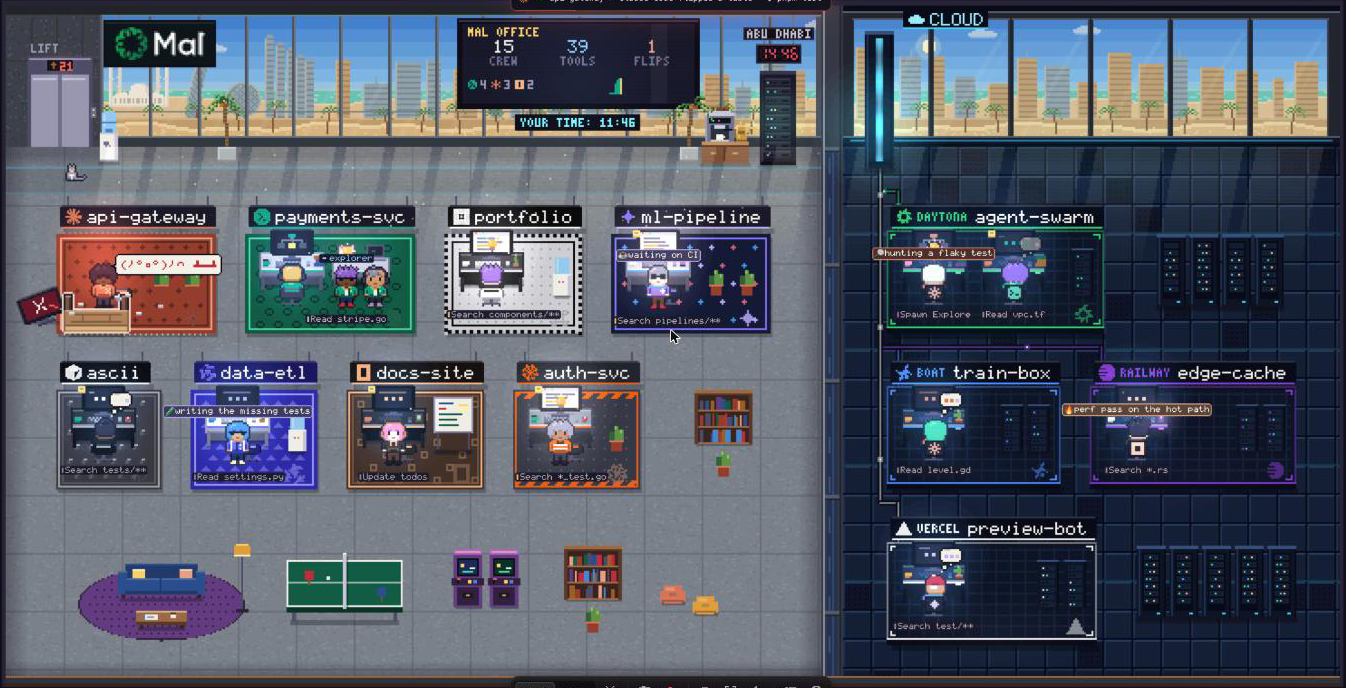
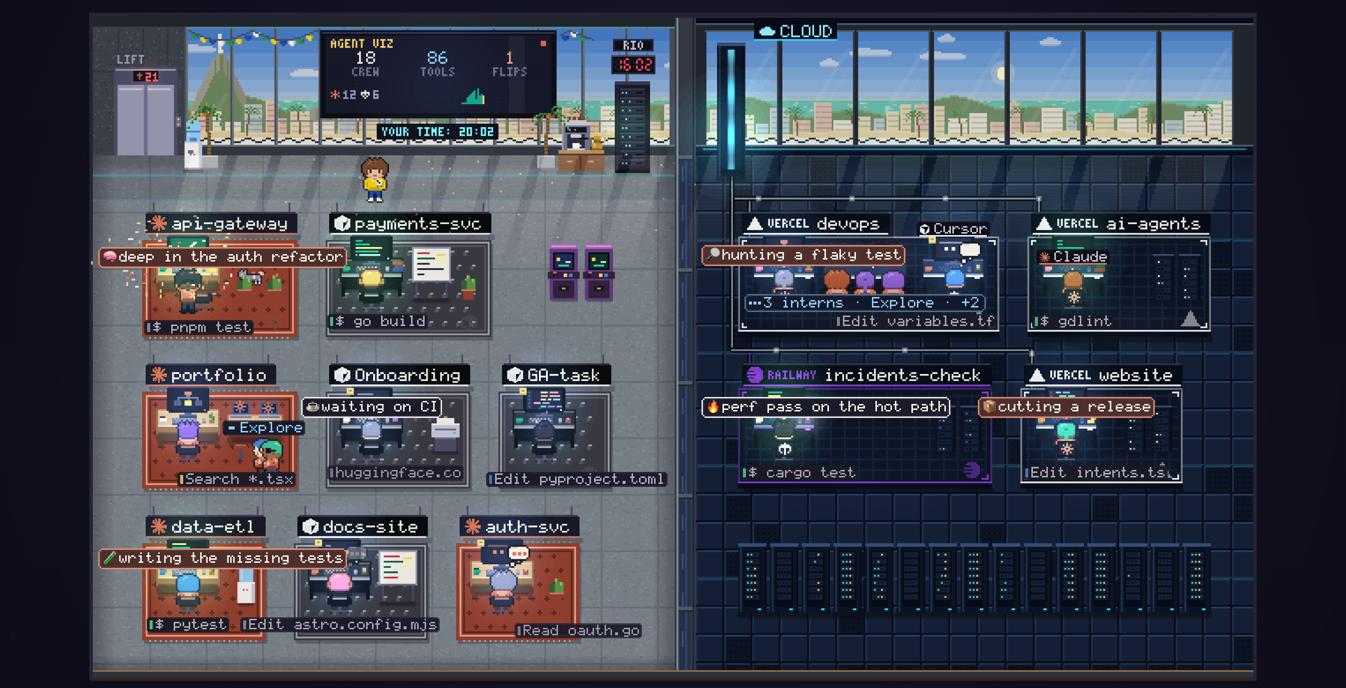
Publish to npm as @pvgomes/agent-visualizer, Rio README shot, fix Windows CI
- Package as @pvgomes/agent-visualizer (the unscoped name on npm is someone
  else's): public publishConfig, MIT license, every `npx` hint and the pinned
  `npx -y @pvgomes/agent-visualizer@<version> mcp` agents register use it,
  and the registry check never accepts the other package
- The CLI reads its version from the scoped package.json (it reported
  0.0.0-dev when installed from a tarball)
- README: install with npx or npm i -g, from-source section, npm badge, and
  a new screenshot of the Rio office; CONTRIBUTING documents releasing
- Windows smoke test: quote the hyphenated mcpServers.'agent-visualizer'
  property (a PowerShell ParserError failed every run) and follow the
  scoped tarball name and pinned command

diff --git a/site/index.html b/site/index.html
@@ -7,7 +7,7 @@
   <meta name="theme-color" content="#0a0a0a" media="(prefers-color-scheme: dark)">
   <meta name="theme-color" content="#ffffff" media="(prefers-color-scheme: light)">
   <title>agent-visualizer · your coding agents, working in a pixel office</title>
-  <meta name="description" content="npx agent-visualizer turns the transcripts your coding agents already write into a live pixel-art office. Every session is a worker at a desk, and a failing test flips the table. Local only, nothing to configure.">
+  <meta name="description" content="npx @pvgomes/agent-visualizer turns the transcripts your coding agents already write into a live pixel-art office. Every session is a worker at a desk, and a failing test flips the table. Local only, nothing to configure.">
   <link rel="canonical" href="{{url}}">
   <meta property="og:type" content="website">
   <meta property="og:site_name" content="agent-visualizer">
@@ -20,7 +20,7 @@
   <meta property="og:image:alt" content="agent-visualizer: the live pixel-art office in a window, under the line: your coding agents, working in a pixel office">
   <meta name="twitter:card" content="summary_large_image">
   <meta name="twitter:title" content="agent-visualizer: your coding agents, working in a pixel office">
-  <meta name="twitter:description" content="npx agent-visualizer: every coding-agent session becomes a worker at a desk. A failing test flips the table.">
+  <meta name="twitter:description" content="npx @pvgomes/agent-visualizer: every coding-agent session becomes a worker at a desk. A failing test flips the table.">
   <meta name="twitter:image" content="{{abs:assets/og.jpg}}">
   <meta name="twitter:image:alt" content="agent-visualizer: the live pixel-art office in a window, under the line: your coding agents, working in a pixel office">
   <link rel="icon" href="favicon.svg" type="image/svg+xml">
@@ -71,8 +71,8 @@
       <p class="sub">Every session becomes a worker at a desk. A failing test flips the table.</p>
       <div class="ctas">
         <div class="cmd">
-          <button class="cmd-btn magnetic" type="button" data-copy="npx agent-visualizer" data-type aria-label="Copy the command: npx agent-visualizer">
-            <span class="cmd-p" aria-hidden="true">$</span><span class="cmd-t" aria-hidden="true">npx agent-visualizer</span><span class="caret" aria-hidden="true"></span><span class="cmd-i" aria-hidden="true"><i-icon n="copy" class="i-copy"></i-icon><i-icon n="check" class="i-check"></i-icon></span>
+          <button class="cmd-btn magnetic" type="button" data-copy="npx @pvgomes/agent-visualizer" data-type aria-label="Copy the command: npx @pvgomes/agent-visualizer">
+            <span class="cmd-p" aria-hidden="true">$</span><span class="cmd-t" aria-hidden="true">npx @pvgomes/agent-visualizer</span><span class="caret" aria-hidden="true"></span><span class="cmd-i" aria-hidden="true"><i-icon n="copy" class="i-copy"></i-icon><i-icon n="check" class="i-check"></i-icon></span>
           </button>
           <span class="copied" role="status" aria-live="polite"></span>
         </div>
@@ -112,7 +112,7 @@
           <div class="boot" aria-hidden="true">
             <div class="boot-in">
               <i-mark class="boot-mark"></i-mark>
-              <p class="boot-line"><span class="boot-p">$</span> npx agent-visualizer</p>
+              <p class="boot-line"><span class="boot-p">$</span> npx @pvgomes/agent-visualizer</p>
               <p class="boot-line boot-l2">opening the office<span class="boot-dots"></span></p>
               <div class="boot-bar"><i></i></div>
             </div>
@@ -330,9 +330,9 @@
         <li class="step" data-reveal>
           <span class="step-n">01</span>
           <h3>Run it</h3>
-          <pre class="code"><code><span class="c-p">$</span> npx agent-visualizer
+          <pre class="code"><code><span class="c-p">$</span> npx @pvgomes/agent-visualizer
 <span class="c-c"># or a busy simulated office</span>
-<span class="c-p">$</span> npx agent-visualizer --demo</code></pre>
+<span class="c-p">$</span> npx @pvgomes/agent-visualizer --demo</code></pre>
           <p>Node 18+. It opens <code>127.0.0.1:4747</code>.</p>
         </li>
         <li class="step" data-reveal>
@@ -346,7 +346,7 @@
           <span class="step-n">03</span>
           <h3>Let agents talk back <span class="opt">optional</span></h3>
           <pre class="code"><code><span class="c-c"># MCP server + skill, every agent</span>
-<span class="c-p">$</span> npx agent-visualizer install</code></pre>
+<span class="c-p">$</span> npx @pvgomes/agent-visualizer install</code></pre>
           <p><code>--dry-run</code> shows the exact diff first; <code>uninstall</code> puts every file back.</p>
         </li>
       </ol>
@@ -366,7 +366,7 @@
         </details>
         <details>
           <summary>Do I have to set anything up?</summary>
-          <p>No. Run <code>npx agent-visualizer</code> with Node 18 or newer and start an agent in another terminal. Each agent's transcripts are read from their usual folder.</p>
+          <p>No. Run <code>npx @pvgomes/agent-visualizer</code> with Node 18 or newer and start an agent in another terminal. Each agent's transcripts are read from their usual folder.</p>
         </details>
         <details>
           <summary>Which agents does it watch?</summary>
@@ -374,7 +374,7 @@
         </details>
         <details>
           <summary>Does it touch my agents' files?</summary>
-          <p>Watching is read-only. Only <code>npx agent-visualizer install</code> touches configs, when you ask: <code>--dry-run</code> shows the exact diff, every file is backed up first, and <code>uninstall</code> puts them all back.</p>
+          <p>Watching is read-only. Only <code>npx @pvgomes/agent-visualizer install</code> touches configs, when you ask: <code>--dry-run</code> shows the exact diff, every file is backed up first, and <code>uninstall</code> puts them all back.</p>
         </details>
         <details>
           <summary>Is the office on this page real?</summary>
@@ -398,8 +398,8 @@
   <div class="wrap night-in" data-reveal>
     <h2 id="outro-title">Give your agents an office.</h2>
     <div class="cmd">
-      <button class="cmd-btn magnetic" type="button" data-copy="npx agent-visualizer" aria-label="Copy the command: npx agent-visualizer">
-        <span class="cmd-p" aria-hidden="true">$</span><span class="cmd-t">npx agent-visualizer</span><span class="cmd-i" aria-hidden="true"><i-icon n="copy" class="i-copy"></i-icon><i-icon n="check" class="i-check"></i-icon></span>
+      <button class="cmd-btn magnetic" type="button" data-copy="npx @pvgomes/agent-visualizer" aria-label="Copy the command: npx @pvgomes/agent-visualizer">
+        <span class="cmd-p" aria-hidden="true">$</span><span class="cmd-t">npx @pvgomes/agent-visualizer</span><span class="cmd-i" aria-hidden="true"><i-icon n="copy" class="i-copy"></i-icon><i-icon n="check" class="i-check"></i-icon></span>
       </button>
       <span class="copied" role="status" aria-live="polite"></span>
     </div>
@@ -417,7 +417,7 @@
       </div>
       <nav class="st-links" aria-label="Project">
         <a href="https://github.com/pvgomes/agent-visualizer">GitHub</a>
-        <a href="https://www.npmjs.com/package/agent-visualizer">npm</a>
+        <a href="https://www.npmjs.com/package/@pvgomes/agent-visualizer">npm</a>
         <a href="https://github.com/pvgomes/agent-visualizer#readme">Docs</a>
         <a href="https://github.com/pvgomes/agent-visualizer/blob/main/CONTRIBUTING.md">Contributing</a>
         <a href="https://github.com/pvgomes/agent-visualizer/issues/new/choose">Report an issue</a>

diff --git a/src/install/index.ts b/src/install/index.ts
@@ -125,7 +125,7 @@ const TARGET_HELP = `  --ssh <host>          Do it on an ssh box (user@host or a
   --boat <id|all>       ... in boat VMs
   --railway <id|all>    ... in Railway sandboxes
   --vercel <id|all>     ... in Vercel Sandboxes
-                        (remote installs need Node 18+ there and register \`npx -y agent-visualizer@<this version> mcp\`,
+                        (remote installs need Node 18+ there and register \`npx -y @pvgomes/agent-visualizer@<this version> mcp\`,
                         so they need this version published on npm)`;
 
 function help(cmd: string): string {
@@ -200,7 +200,7 @@ function ago(ms: number): string {
 
 async function officeLine(out: Out): Promise<void> {
   const port = await findOffice();
-  if (port === null) out(`${PAD}${dim("Office")}     ${yellow("not running")} ${dim("· start it with")} ${bold("npx agent-visualizer")}`);
+  if (port === null) out(`${PAD}${dim("Office")}     ${yellow("not running")} ${dim("· start it with")} ${bold("npx @pvgomes/agent-visualizer")}`);
   else {
     const snap = await fetchSnapshot(port);
     const n = snap?.workers.length ?? 0;
@@ -218,7 +218,7 @@ async function officeLine(out: Out): Promise<void> {
 
 /** Remote platforms whose CLI or credentials are present here, for doctor. */
 async function remoteHints(sys: Sys): Promise<string[]> {
-  // The office's own auto-detection, when src/remote is registered: the same answer `npx agent-visualizer` acts on.
+  // The office's own auto-detection, when src/remote is registered: the same answer `npx @pvgomes/agent-visualizer` acts on.
   const hints = detectRemotes() ?? [];
   if (!hints.length) {
     if (await sys.which("railway")) hints.push("railway CLI");
@@ -256,7 +256,7 @@ async function doctor(f: Flags, out: Out, version: string): Promise<number> {
     out();
     if (fixable) {
       const where = sys.remote ? ` --${sys.where.split(":")[0]} ${sys.where.slice(sys.where.indexOf(":") + 1)}` : "";
-      out(`${PAD}${yellow(`${fixable} agent${fixable === 1 ? "" : "s"} could use the office tools.`)} Run ${bold(`npx agent-visualizer install${where}`)}`);
+      out(`${PAD}${yellow(`${fixable} agent${fixable === 1 ? "" : "s"} could use the office tools.`)} Run ${bold(`npx @pvgomes/agent-visualizer install${where}`)}`);
       out();
     } else if (rows.some((r) => r.installed)) {
       out(`${PAD}${green("All set.")}`);

diff --git a/src/cli.ts b/src/cli.ts
@@ -1,5 +1,5 @@
 /*
- * `npx agent-visualizer`: parse flags, fill the state store from the transcript
+ * `npx @pvgomes/agent-visualizer`: parse flags, fill the state store from the transcript
  * watcher (or the demo), serve the office on localhost, print the banner and
  * open the browser. No dependencies: flags are parsed by hand and the colours
  * are raw ANSI, off for NO_COLOR and when stdout is not a terminal.
@@ -34,7 +34,7 @@ import { claudeSessionOf, startPresence } from "./control/presence.ts";
 import { createInstallApi } from "./control/install-api.ts";
 import { appCurrent, installService, serviceLogger, serviceStatus, setStartAtLogin, startService } from "./control/service.ts";
 import { canOpenBrowser, loginPath, openBrowser, serviceDeps, waitForOffice } from "./control/cli.ts";
-import { selfCommand } from "./install/command.ts";
+import { PACKAGE_NAME, selfCommand } from "./install/command.ts";
 import type { ServiceControl } from "./control/api.ts";
 import { controlSupported } from "./control/types.ts";
 import { join } from "node:path";
@@ -350,7 +350,7 @@ function logEvent(e: OfficeEvent): void {
 function readVersion(): string {
   try {
     const pkg = JSON.parse(readFileSync(new URL("../package.json", import.meta.url), "utf8"));
-    if (pkg && (pkg.name === "agent-visualizer" || pkg.name === "agent-visualizer") && typeof pkg.version === "string") return pkg.version;
+    if (pkg && pkg.name === PACKAGE_NAME && typeof pkg.version === "string") return pkg.version;
   } catch {
     // Fall through: running from somewhere without the package.json beside it.
   }
@@ -379,8 +379,8 @@ function help(version: string): string {
 ${bold("agent-visualizer")} ${dim(`v${version}`)}  a live pixel-art office for your coding agents
 
 ${bold("Usage")}
-  npx agent-visualizer [office] [options]     open the office (the default command)
-  npx agent-visualizer <command> [options]    install | uninstall | doctor | mcp | open
+  npx @pvgomes/agent-visualizer [office] [options]     open the office (the default command)
+  npx @pvgomes/agent-visualizer <command> [options]    install | uninstall | doctor | mcp | open
 
 ${bold("Office options")}
   --port <n>, -p    Port to serve on (default ${DEFAULT_PORT}; tries the next ${PORT_FALLBACK} if taken)

diff --git a/src/install/command.ts b/src/install/command.ts
@@ -1,7 +1,7 @@
 /*
  * What command each agent should launch for the MCP server. From an npx
  * cache the CLI's own path is temporary, so agents get `npx -y
- * agent-visualizer@<this exact version> mcp`; from a global install or a checkout
+ * @pvgomes/agent-visualizer@<this exact version> mcp`; from a global install or a checkout
  * they get the absolute node + dist/cli.js paths, which work before the
  * package is even published. Remote installs always use npx: our paths mean
  * nothing there. The npx form is pinned, never @latest, so a later release
@@ -17,7 +17,7 @@ import type { AgentKind } from "../shared/events.ts";
 import { readServiceFile } from "../control/service.ts";
 
 export const SERVER_NAME = "agent-visualizer";
-export const PACKAGE_NAME = "agent-visualizer";
+export const PACKAGE_NAME = "@pvgomes/agent-visualizer";
 
 /** The spec agents run with npx: this exact version. */
 export function npxPackage(version: string): string {
@@ -48,7 +48,7 @@ const SERVICE_COPY = /\/app\/[^/]+\/dist\/cli\.js$/;
 
 /**
  * What to type to run this CLI again, for the commands its hints name: `agent-visualizer` after a
- * global install, `npx agent-visualizer` from a package-runner cache, where `agent-visualizer` was
+ * global install, `npx @pvgomes/agent-visualizer` from a package-runner cache, where `agent-visualizer` was
  * never put on PATH. The background service's copy isn't on PATH either: it names what installed
  * it, as service.json beside app/ records (npx when that predates the record).
  */
@@ -102,7 +102,7 @@ export function stableNode(execPath = process.execPath, path = process.env.PATH 
 }
 
 /**
- * Is agent-visualizer@<version> on the npm registry? null when the registry can't be asked. An npx
+ * Is @pvgomes/agent-visualizer@<version> on the npm registry? null when the registry can't be asked. An npx
  * command for a version that isn't there fails at every agent launch, and for an unclaimed
  * name it would run whatever someone publishes under it next.
  */

diff --git a/src/mcp/tools.ts b/src/mcp/tools.ts
@@ -58,7 +58,7 @@ export const TOOLS: ToolDef[] = [
       "their project, what they are doing this second, their status line, the files they recently edited, and when they were last active. " +
       "Anyone in the same git repo as you is listed first with the files they touched. " +
       "Call it before editing files in a repo other agents may share, and before a big refactor, so you don't overwrite another agent's work. " +
-      "Read-only. Needs the office running on this machine (`npx agent-visualizer`).",
+      "Read-only. Needs the office running on this machine (`npx @pvgomes/agent-visualizer`).",
     inputSchema: { type: "object", properties: {}, additionalProperties: false },
     annotations: { readOnlyHint: true, openWorldHint: false },
   },
@@ -202,7 +202,7 @@ export function createHandlers(ctx: ToolContext): Record<string, (args: Record<s
           text:
             "The office isn't open on this machine, so there's no one to list. " +
             "If you're in a remote sandbox, that's expected: the office runs on the developer's own machine and watches this sandbox from there. " +
-            "Locally, the user can open it with `npx agent-visualizer`. Your status, shouts and celebrations are still saved and show up once it's open.",
+            "Locally, the user can open it with `npx @pvgomes/agent-visualizer`. Your status, shouts and celebrations are still saved and show up once it's open.",
         };
       }
       const snap = await ctx.fetchSnapshot(port);

diff --git a/video/src/tour.ts b/video/src/tour.ts
@@ -45,7 +45,7 @@ const CHAT_STEPS = ["Open its chat", "Read the full command", "Press 1 to allow"
 const chatF = (step: number): Feature => ({ title: "In chat mode, approve with one key.", line: "", steps: CHAT_STEPS, step, accent: INK.green });
 
 export const F: Record<string, Feature> = {
-  one: { title: "One command.", line: "Run ‹npx agent-visualizer› and every agent you already use walks in.", accent: INK.cyan, logos: LINEUP },
+  one: { title: "One command.", line: "Run ‹npx @pvgomes/agent-visualizer› and every agent you already use walks in.", accent: INK.cyan, logos: LINEUP },
   lapse: { title: "The sandbox spins up.", line: "Daytona creates it, the office installs Command Code and copies your setup.", accent: INK.cyan, tag: "" },
   beam: { title: "It beams into the cloud wing.", line: "A pod of its own, under a Daytona sign, next to your other sandboxes.", accent: INK.cyan, logos: ["daytona", "vercel", "railway"] },
   diff: { title: "See every change.", line: "The work log keeps each tool call, with the diff of every edit.", accent: INK.violet },
@@ -269,7 +269,7 @@ function privacyShot(dur: number): Shot {
 /** Three steps, then the end card. */
 function howTo(dur: number): Shot {
   const steps: [string, string, string][] = [
-    ["1", "npx agent-visualizer", INK.cyan],
+    ["1", "npx @pvgomes/agent-visualizer", INK.cyan],
     ["2", "Your agents walk in.", INK.white],
     ["3", "Hire and drive them from the page.", INK.white],
   ];

diff --git a/src/install/installer.ts b/src/install/installer.ts
@@ -333,7 +333,7 @@ export async function install(sys: Sys, opts: RunOptions): Promise<number> {
   }
 
   if (!changes) {
-    out(`${PAD}${green("Everything is already in place.")} ${dim("Open the office with")} ${bold("npx agent-visualizer")}`);
+    out(`${PAD}${green("Everything is already in place.")} ${dim("Open the office with")} ${bold("npx @pvgomes/agent-visualizer")}`);
     out();
     return blocked ? 1 : 0;
   }
@@ -398,7 +398,7 @@ export async function install(sys: Sys, opts: RunOptions): Promise<number> {
     out(`${PAD}machine and watches the sandbox from there; agents in it can't see peers, but their status, shouts and flips show up.`);
   } else {
     out(`${PAD}${bold("Done.")} Restart running agents (or ${bold("/mcp")} in Claude Code) to pick up the office tools,`);
-    out(`${PAD}then open the office: ${bold("npx agent-visualizer")}`);
+    out(`${PAD}then open the office: ${bold("npx @pvgomes/agent-visualizer")}`);
   }
   out();
   return failed ? 1 : 0;

diff --git a/web/ui/capture.ts b/web/ui/capture.ts
@@ -3,7 +3,7 @@
  * the office is kept recording in two staggered 20-second takes, so pressing
  * R right after a table flip saves the take that holds the last ~15 seconds.
  * Only the canvas is captured, never the chrome; the replay buffer burns a
- * caption for each big moment and a small "npx agent-visualizer" mark into its
+ * caption for each big moment and a small "npx @pvgomes/agent-visualizer" mark into its
  * own copy of the frame, so a clip explains itself when it's posted.
  */
 import { stamp } from "./format.ts";
@@ -239,7 +239,7 @@ export class ReplayBuffer {
     }
     // the mark: so a posted clip says where it came from
     g.font = `600 ${Math.round(15 * u)}px ui-monospace, "SF Mono", Menlo, monospace`;
-    const mark = "npx agent-visualizer";
+    const mark = "npx @pvgomes/agent-visualizer";
     const mw = g.measureText(mark).width;
     g.fillStyle = "rgba(8,8,12,0.6)";
     g.fillRect(c.width - mw - 34 * u, c.height - 40 * u, mw + 20 * u, 26 * u);

diff --git a/src/control/service.ts b/src/control/service.ts
@@ -57,12 +57,12 @@ export interface ServiceFile {
   installedAt: string;
   startAtLogin: boolean;
   port: number;
-  /** "agent-visualizer" or "npx agent-visualizer": what installed it, since app/<version> is on nobody's PATH. */
+  /** "agent-visualizer" or "npx @pvgomes/agent-visualizer": what installed it, since app/<version> is on nobody's PATH. */
   command?: string;
 }
 
 /** The commands a service.json may name (it ends up in the office's own pages). */
-const COMMANDS = new Set(["agent-visualizer", "npx agent-visualizer"]);
+const COMMANDS = new Set(["agent-visualizer", "npx @pvgomes/agent-visualizer", "npx agent-visualizer"]);
 
 export function supported(platform: NodeJS.Platform): boolean {
   return platform === "darwin" || platform === "linux";

diff --git a/web/ui/app.ts b/web/ui/app.ts
@@ -39,9 +39,9 @@ export interface Chrome {
 }
 
 /** How to unlock, for the empty office. The page can't tell how the office was installed: npx works either way. */
-const LOCKED_HOW = "Locked in this browser: run npx agent-visualizer open where the office runs (--print for a link to paste here)";
+const LOCKED_HOW = "Locked in this browser: run npx @pvgomes/agent-visualizer open where the office runs (--print for a link to paste here)";
 /** The same, short enough for a toolbar tooltip or a toast. */
-const LOCKED_TIP = "Locked: run npx agent-visualizer open to unlock";
+const LOCKED_TIP = "Locked: run npx @pvgomes/agent-visualizer open to unlock";
 
 const REC_MS = 10_000;
 /** Height kept clear for the toast row under the top bar (desktop). */

diff --git a/video/src/titles.ts b/video/src/titles.ts
@@ -207,9 +207,9 @@ export function terminals(g: CanvasRenderingContext2D, W: number, H: number, t: 
 
 /* -------------------------------------------------------------- the command */
 
-export const COMMAND = "npx agent-visualizer";
+export const COMMAND = "npx @pvgomes/agent-visualizer";
 
-/** `$ npx agent-visualizer`, typed in neon cyan. `typed` is how many characters show; `glow` 0..1. */
+/** `$ npx @pvgomes/agent-visualizer`, typed in neon cyan. `typed` is how many characters show; `glow` 0..1. */
 export function commandLine(g: CanvasRenderingContext2D, cx: number, cy: number, scale: number, typed: number, cursorOn: boolean, glow: number, color: string = INK.cyan) {
   const s = Math.round(scale);
   const full = `$ ${COMMAND}`;

diff --git a/src/remote/util.ts b/src/remote/util.ts
@@ -417,7 +417,7 @@ export interface Provider {
   available(): Availability;
   /**
    * Running sandboxes. "all" (the default, and what `--<platform> all` asks for) is everything
-   * the login can see; "auto" (plain `npx agent-visualizer`) is only the user's own scope: the
+   * the login can see; "auto" (plain `npx @pvgomes/agent-visualizer`) is only the user's own scope: the
    * default team, the linked project, sandboxes this user's CLI made. Rejects with RemoteError
    * when the listing itself fails.
    */
